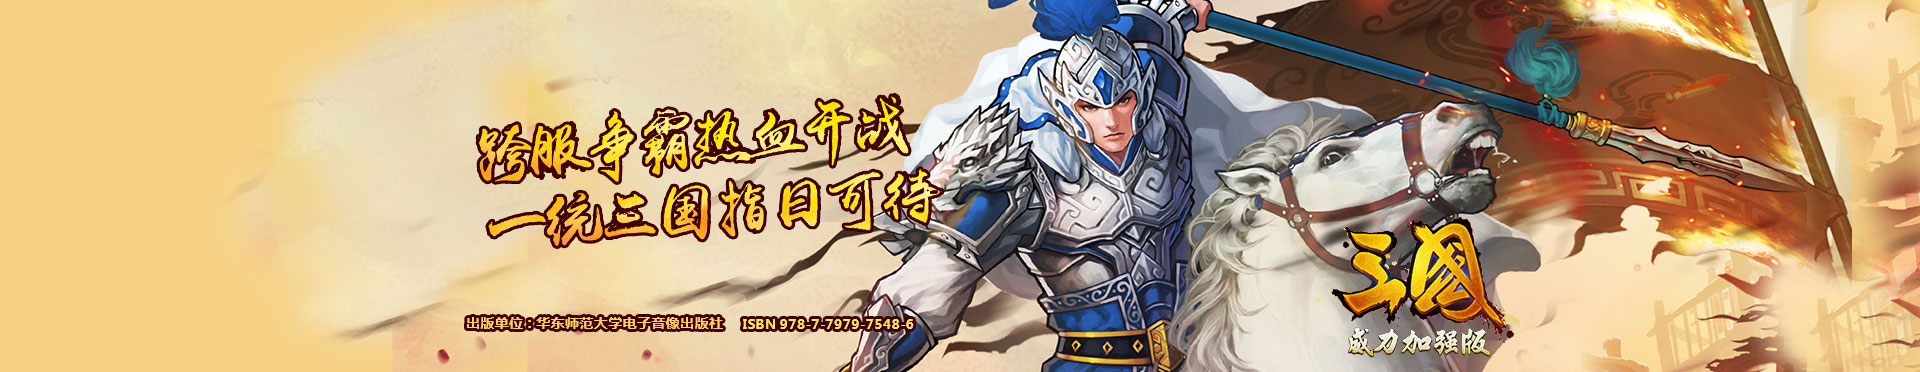
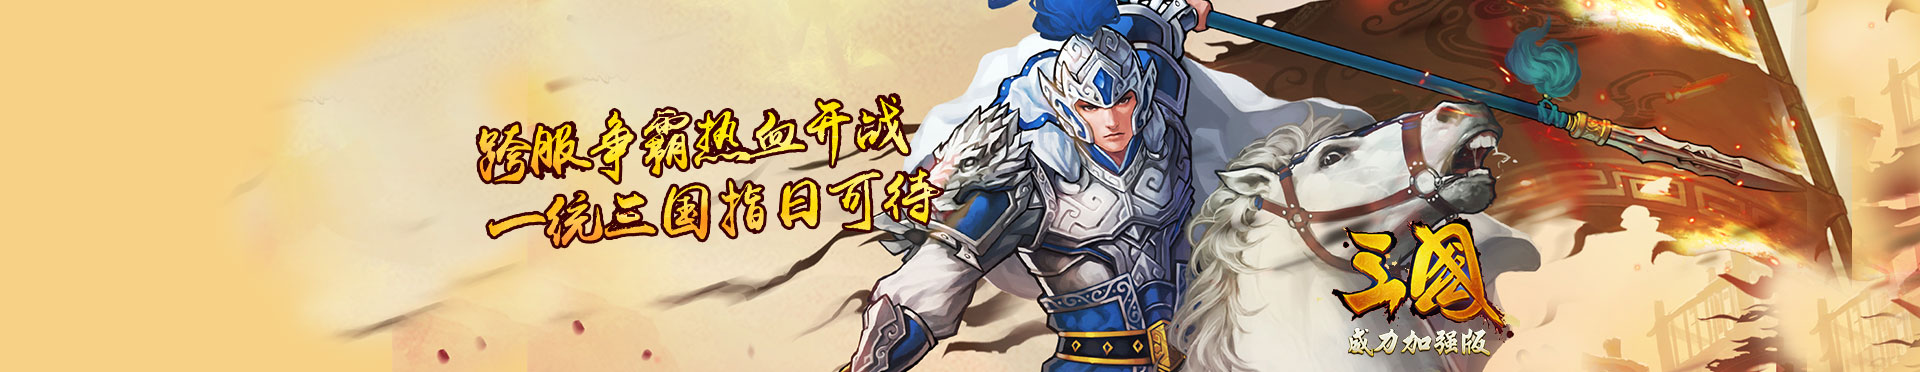
修复ie灰度支持

Changed region(s): [[0.2188, 0.828, 0.5, 0.9167]]

diff --git a/js/main.js b/js/main.js
@@ -1,9 +1,12 @@
 ;(function(){
   var current=0;
+  grayscale($(".next img"));
   $(".next").click(function(){
+    grayscale.reset($(".next img"));
     current++;
     $(".item").eq(current).show().siblings(".item").hide();
-    $(".step").children().eq(current).removeClass("next")
+    $(".step").children().eq(current).removeClass("next");
+    grayscale($(".next img"));
   })
   $(".pop-xieyi").click(function(){
     $(".mask").fadeIn(200);

diff --git a/register.html b/register.html
@@ -364,6 +364,7 @@
     </div>
   </div>
   <script src="js/jquery.js"></script>
+  <script src="http://james.padolsey.com/demos/grayscale/grayscale.js"></script>
   <script src="js/main.js"></script>
 </body>
 </html>
